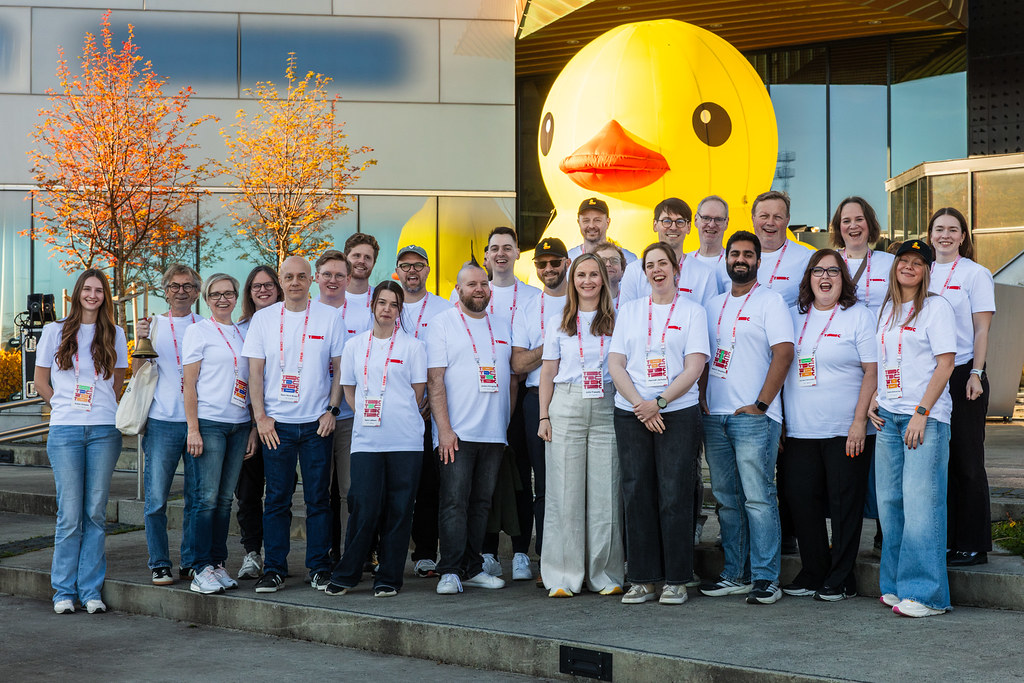
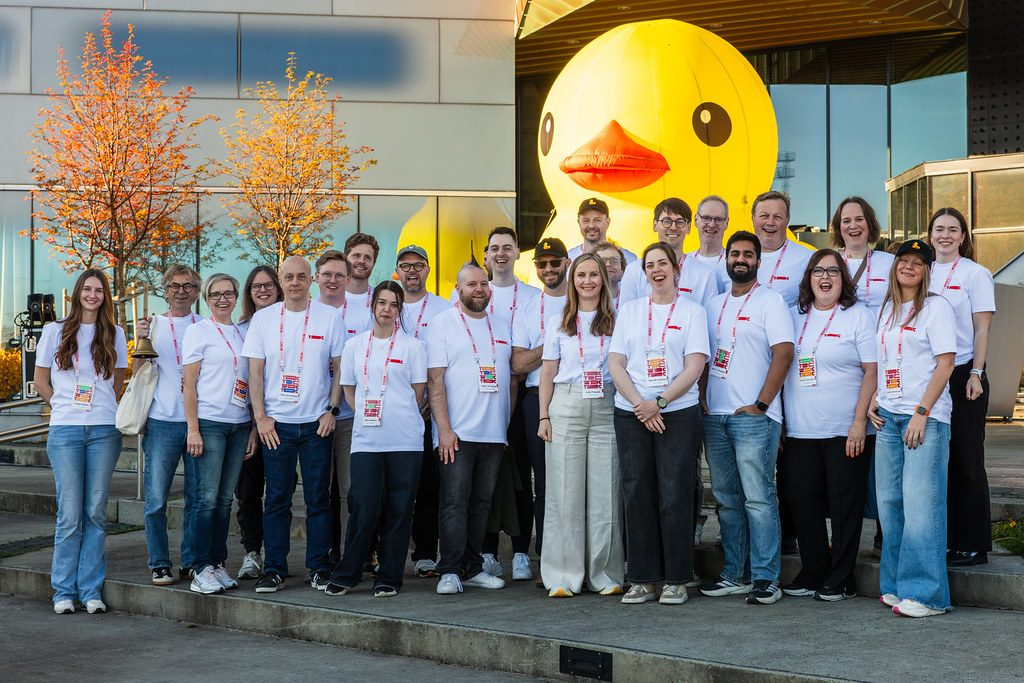
Shrink the committee photo, reserve its space and lazy-load it

diff --git a/src/_includes/content/en/about.md b/src/_includes/content/en/about.md
@@ -14,4 +14,4 @@ The conference "TDC" originally stood for "Trondheim Developer Conference", but 
 
 Anders Kringstad, Alexander Samsig, Bård Flugon, Bjørn Herve Moslet, Hanna Aalmen, Hannah Jarholm, Hanne Bårdsen, Julie Frøseth, Kari Bach Henningsen, Karl Yngve Lervåg, Kasia Szlejter, Kevin K. Varughese, Kirsti Fossland Brørs, Luci André Knudsen, Mathias Flått, Natalia Mykhailovska, Roar V. Skjønberg, Roger Flataker, Rolf Anders Storset, Sara Løkken, Sigmund Henningsen, Stian Standahl, Terje Storvik and Vladas Diržys
 
-![Programkomité 2026](/assets/images/komite.jpg)
+<img src="/assets/images/komite.jpg" alt="Program committee 2026" width="1024" height="683" loading="lazy" decoding="async">

diff --git a/src/_includes/content/no/about.md b/src/_includes/content/no/about.md
@@ -14,4 +14,4 @@ Konferansen «TDC» startet som «Trondheim Developer Conference», men det navn
 
 Anders Kringstad, Alexander Samsig, Bård Flugon, Bjørn Herve Moslet, Hanna Aalmen, Hannah Jarholm, Hanne Bårdsen, Julie Frøseth, Kari Bach Henningsen, Karl Yngve Lervåg, Kasia Szlejter, Kevin K. Varughese, Kirsti Fossland Brørs, Luci André Knudsen, Mathias Flått, Natalia Mykhailovska, Roar V. Skjønberg, Roger Flataker, Rolf Anders Storset, Sara Løkken, Sigmund Henningsen, Stian Standahl, Terje Storvik og Vladas Diržys
 
-![Programkomité 2026](/assets/images/komite.jpg)
+<img src="/assets/images/komite.jpg" alt="Programkomité 2026" width="1024" height="683" loading="lazy" decoding="async">
